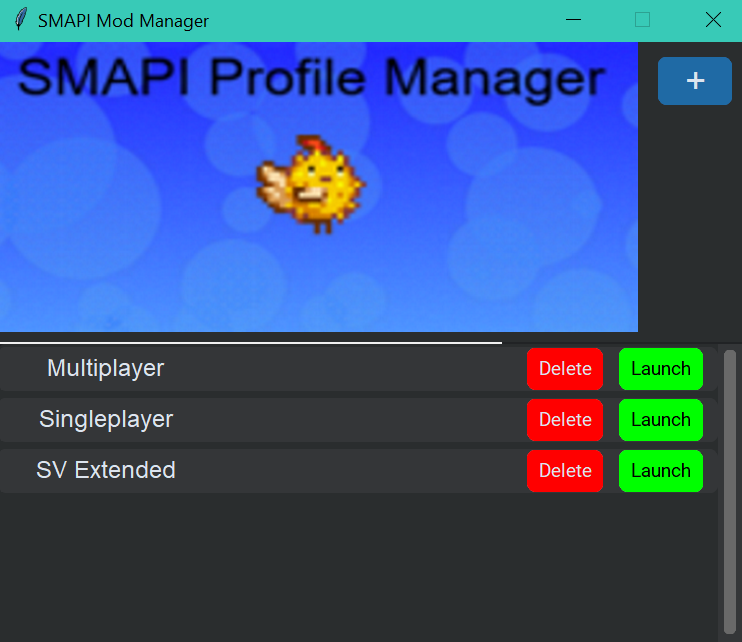
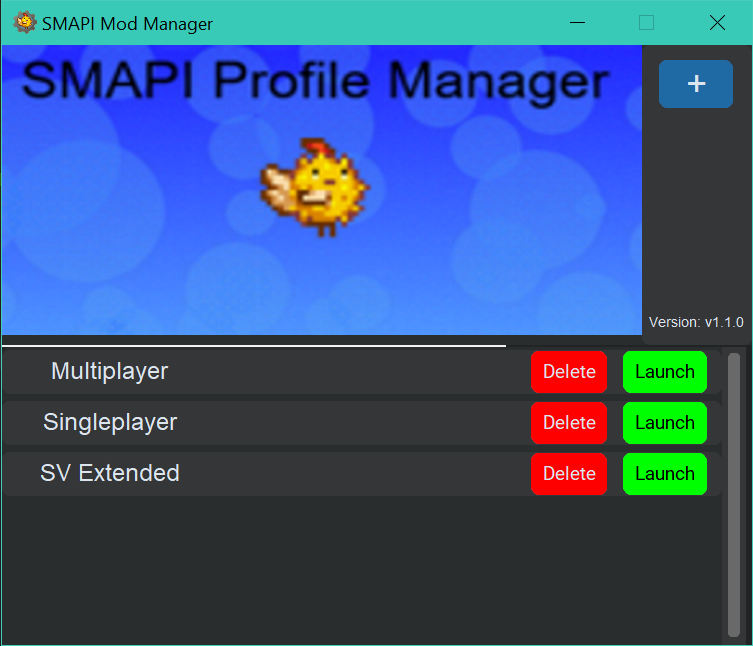
Added Version tag to UI; Updated READNME

diff --git a/UIelements.py b/UIelements.py
@@ -1,5 +1,6 @@
 import customtkinter as ctk
 from tkinter import PhotoImage
+from main import VERSION
 
 
 class Window(ctk.CTk):
@@ -20,6 +21,8 @@ class Window(ctk.CTk):
         self.control_frame = Frame(self.top_frame, width=100, height=200)
         self.control_frame.pack_propagate(False)
         self.control_frame.pack(side="right", fill="y")
+        self.version_label = ctk.CTkLabel(self.control_frame, text="Version: " + VERSION, width=100, height=20, text_font=("Arial", 7))
+        self.version_label.pack(side="bottom", fill="x", pady=5)
 
         self.canvas = ctk.CTkCanvas(self, width=500)
         self.profiles_list = Frame(self, width=500, height=360)

diff --git a/main.py b/main.py
@@ -113,7 +113,7 @@ def check_files():
 profiles = []
 profile_number = 0
 name_input = ''
-VERSION = "v1.0.0"
+VERSION = "v1.1.0"
 
 if __name__ == '__main__':
     check_files()

diff --git a/README.md b/README.md
@@ -23,13 +23,13 @@ This will prompt you to choose a folder, which will be one of your mod profiles.
 Once that is done, you can repeat the process for as many different profiles as you wish You can then launch the game with different profiles using their launch button, or delete the profile with the delete button.
 
 ## Restrictions
-- At the moment your game must be installed in the default location
-`C:\Program Files (x86)\Steam\steamapps\common\Stardew Valley`, but this should be fixed soon.
-- The folders of mods when adding profiles currently need to be inside the Stardew Valley folder, also something that should soon be fixed.
+- The folders of mods when adding profiles currently need to be inside the Stardew Valley folder, this will be fixed soon.
 
-## Modifiying the program
-The only external package needed for this program is [CustomTkinter](https://github.com/TomSchimansky/CustomTkinter), which can be installed with:<br>
+## Modifying the program
+The external packages for this program are [CustomTkinter](https://github.com/TomSchimansky/CustomTkinter), which can be installed with:<br>
 `pip install customtkinter`</br>
+And [requests](https://pypi.org/project/requests/), which can be installed with:<br>
+`pip install requests`</br>
 
 When building the program back into an exe file, you can use the build.bat file, but be sure to replace the file path to the customtkinter with the one shown when you run<br>
 `pip show customtkinter`

diff --git a/changlelog.md b/changlelog.md
@@ -1,13 +1,17 @@
 # SMAPI Profile Manager Changelog
 
-## Update 1.1.0 ()
+## Update 1.1.0 (Dec 4, 2022)
 
 ### Additions
  - Can now launch the game if it is not in the default install location
  - Implemented a check for critical files
+ - Version tag in the UI
+
+### Changes
+ - Updated the README.md file
 
 ### Fixes
- - Fixed a bug with game not launching in most cases
+ - Fixed a bug where game would not launch in most cases
  - Properly centered the add profile button
  - Fixed the preview image not showing up in the README
 
